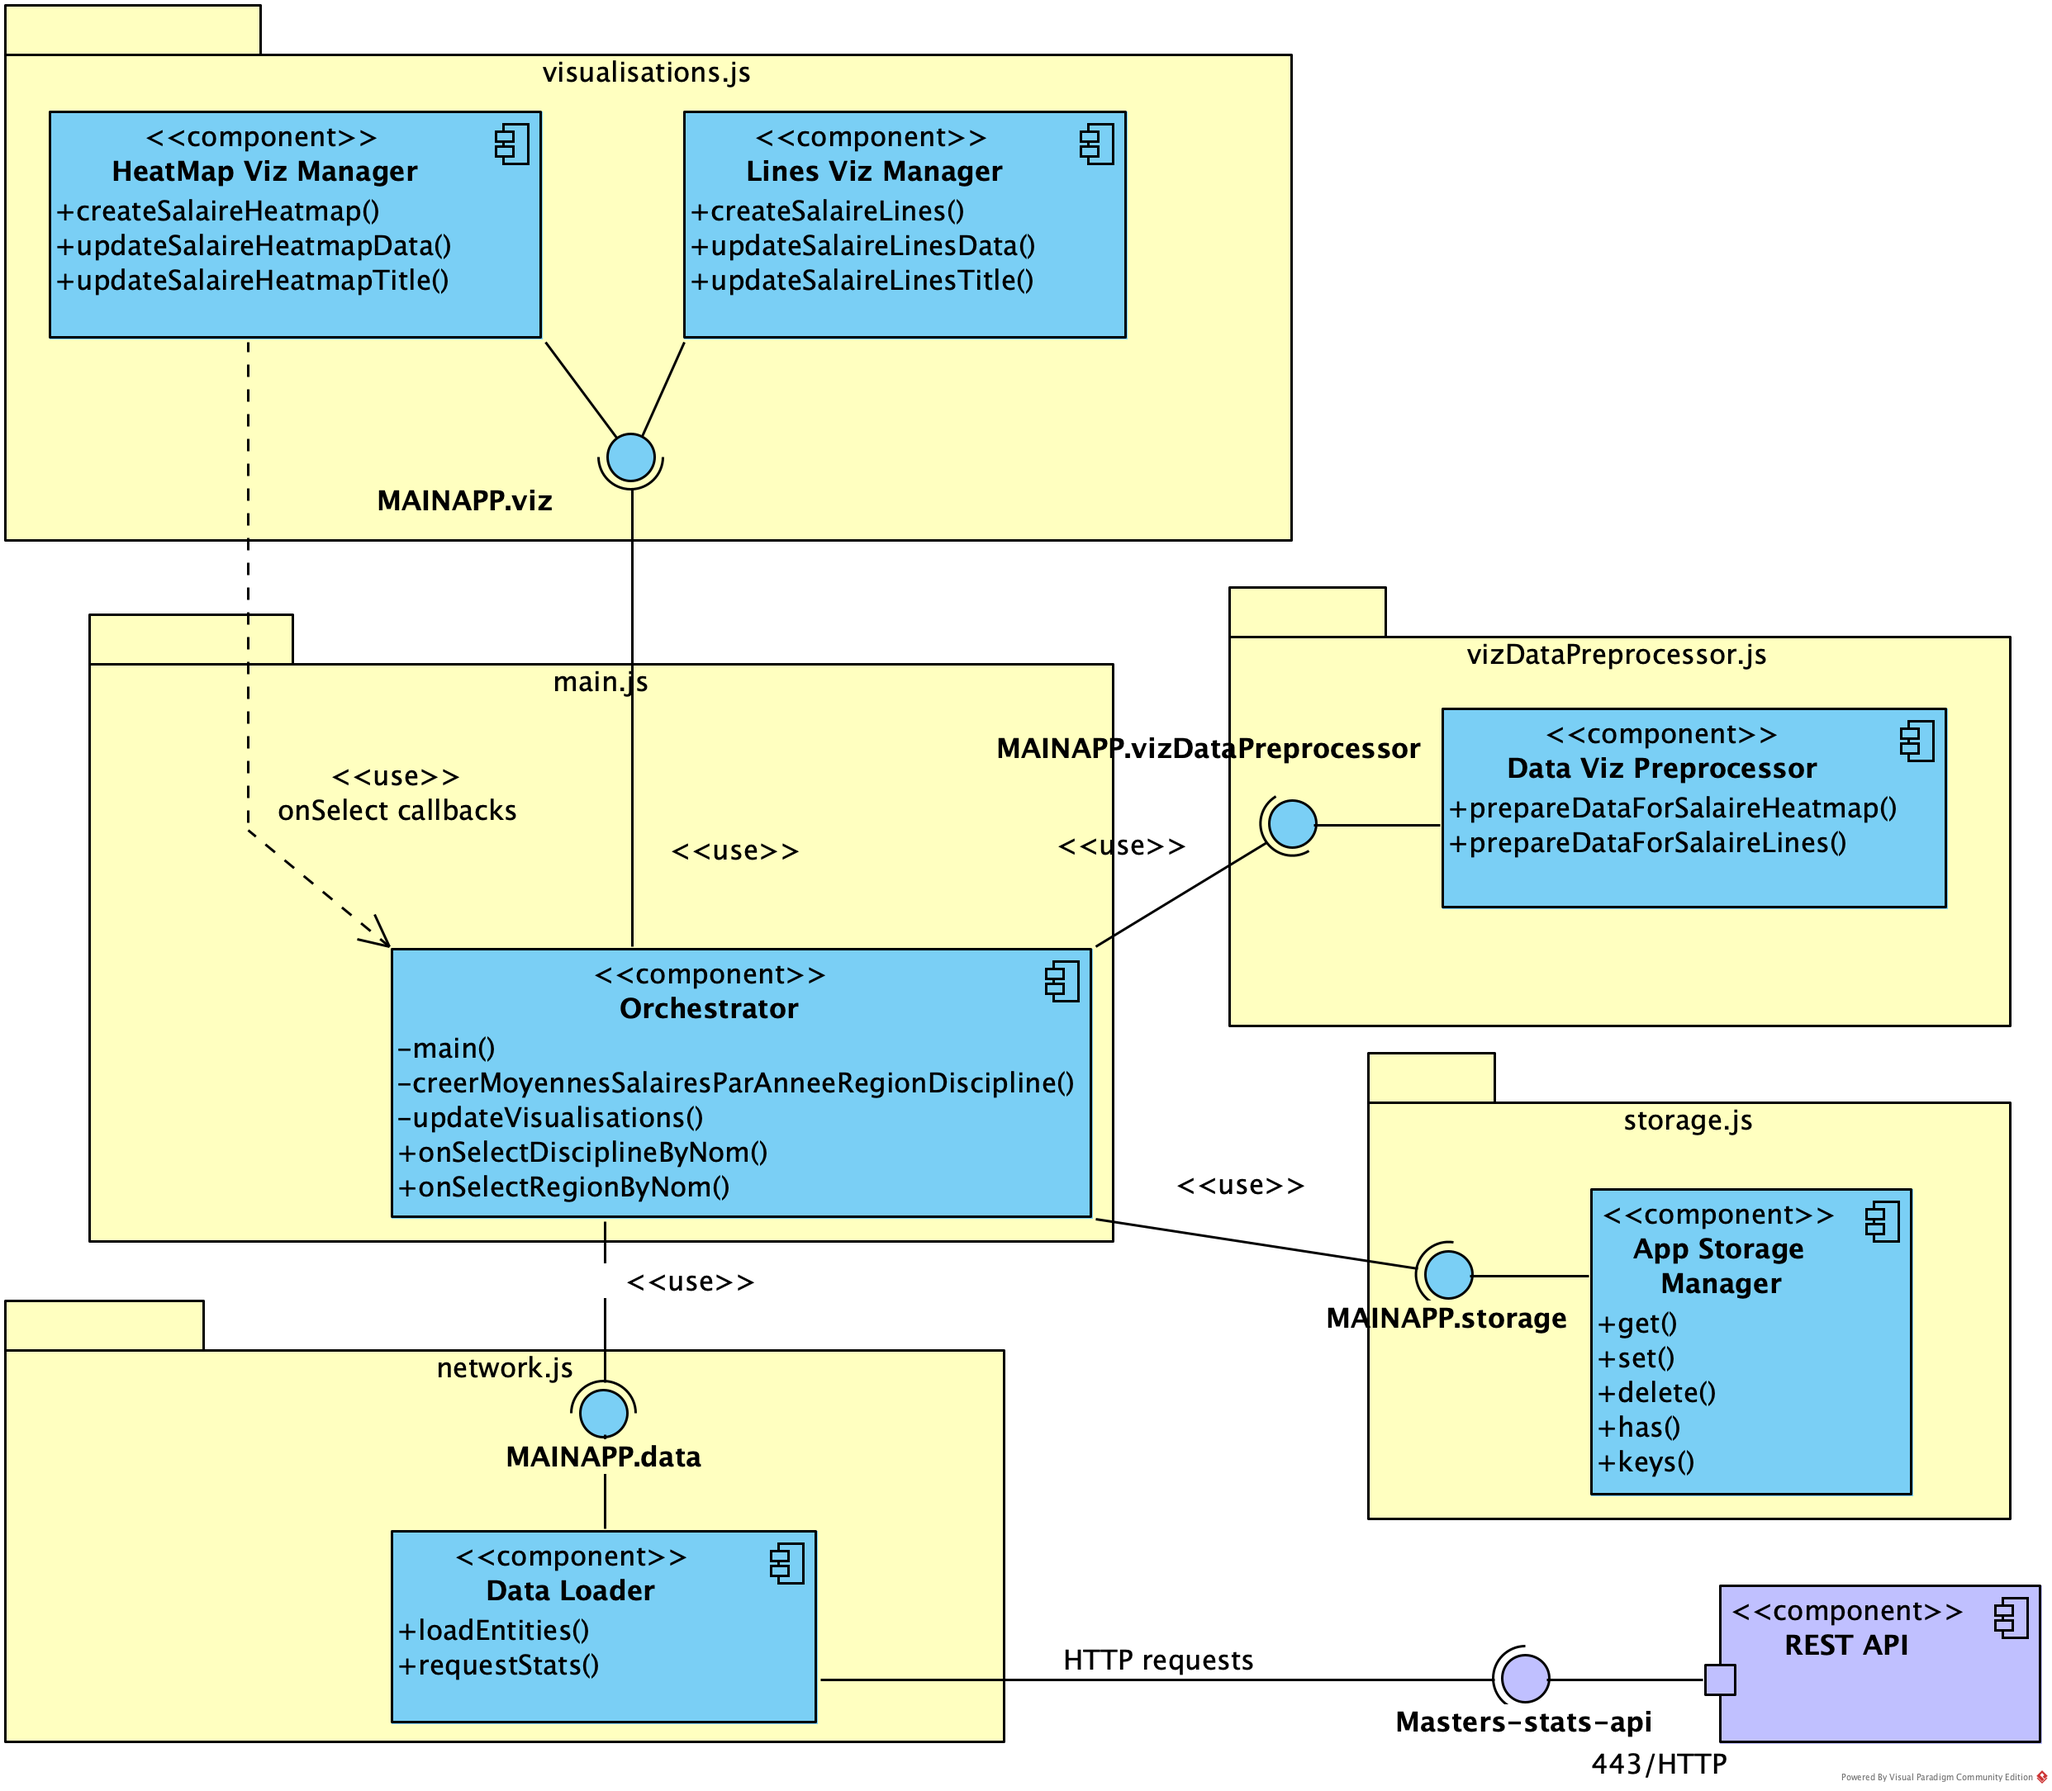
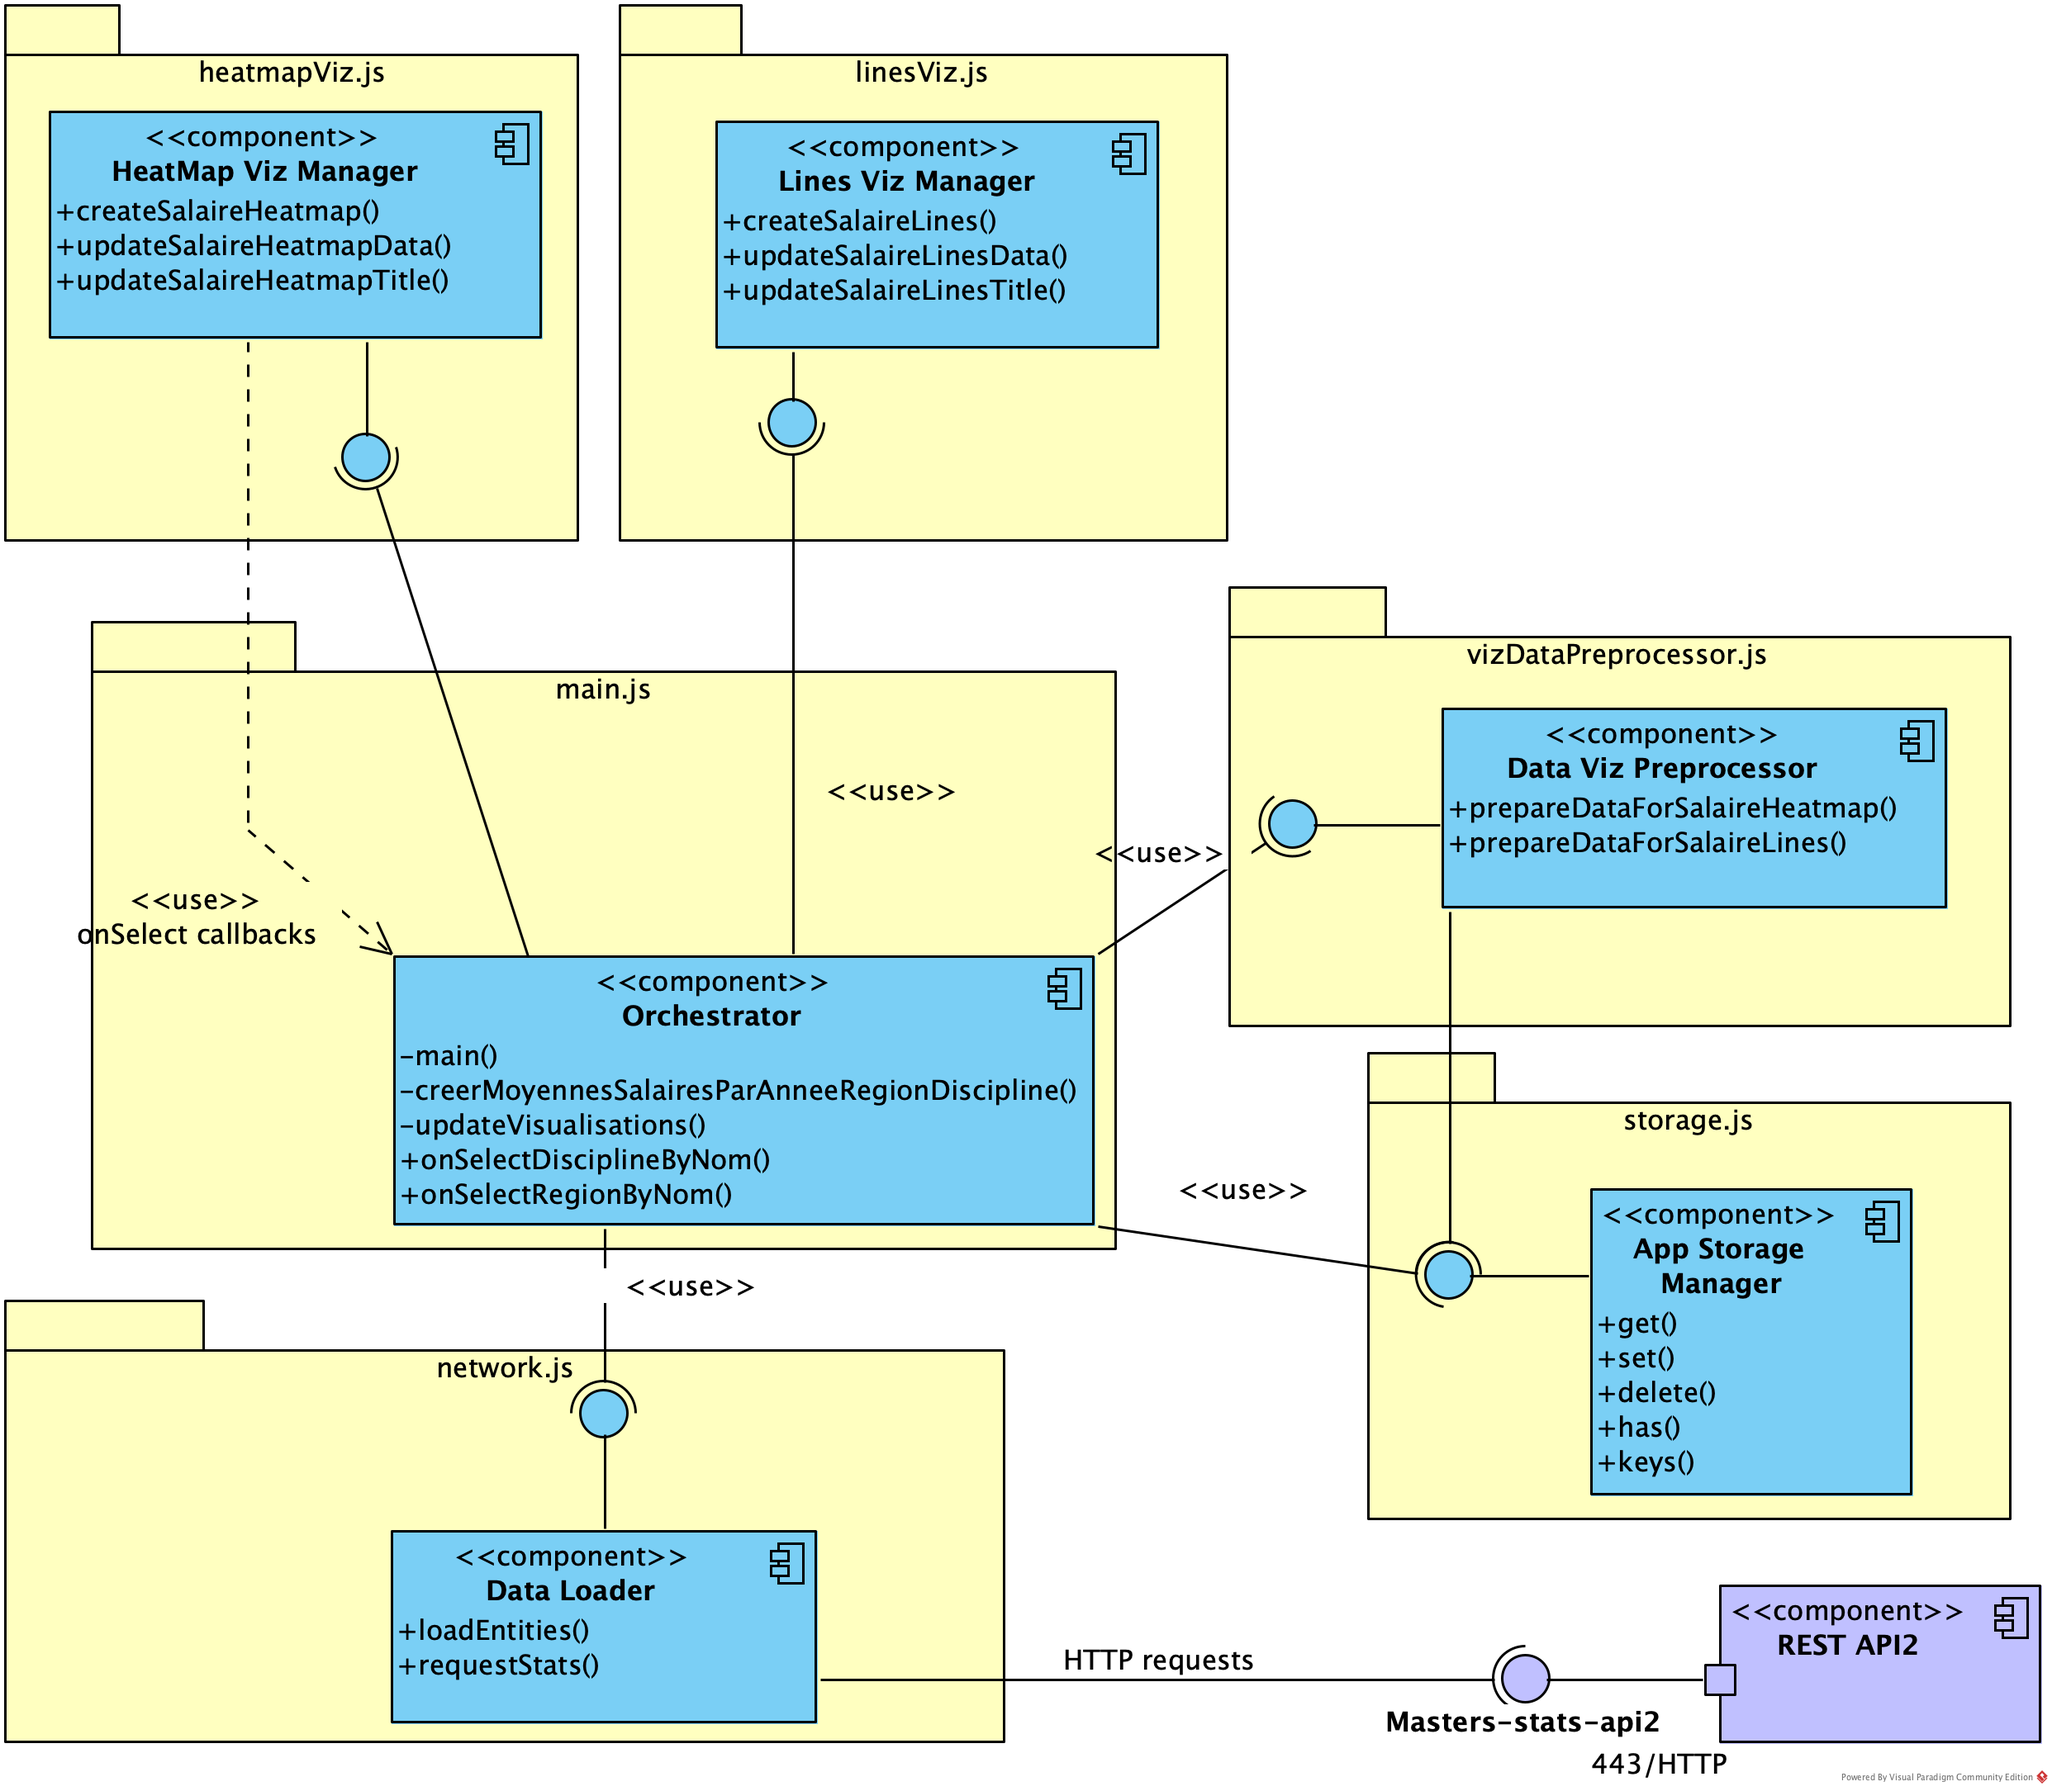
update doc for ESM

diff --git a/README.md b/README.md
@@ -28,45 +28,45 @@ _Si vous récupérez ce projet depuis une archive zip :_
 
 ## Composants
 
-L'application est composée de 6 composants répartis sur 5 fichiers : network.js, storage.js vizDataPreprocessor.js, visualisations.js et main.js.
+L'application est composée de 6 modules js : network.js, storage.js vizDataPreprocessor.js, heatmapViz.js, linesViz.js et main.js.
 
-Les composants, illustrés en bleu, sont des regroupements conceptuels de fonctions ayant une thématique commune.
+Les composants, illustrés en bleu, sont des regroupements conceptuels de fonctions principale des modules.
 
-Les méthodes préfixées avec un plus "+" sont "publiques", exposées par l'interface modélisée dans le schéma par un rond bleu, et dans le code via un objet global rattaché à la constante window du navigateur sous la propriété "MAINAPP". C'est une manière ancienne mais simple et efficace de paratager des données (fonctions, constantes...) entre différents scripts de la page. Ainsi chaque script de composant qui doit exposer son interface de fonction "publiques" commencera par créer cet objet MAINAPP s'il n'existe pas déjà puis attaché à ce dernier son interface (ex.: viz, storage...).
+Les méthodes préfixées avec un plus "+" sont publiques, exportées par le modules
 
-Le composant violet "REST API" représente l'API REST distante d'accès aux données
+Le composant violet "REST API" représente l'API REST distante d'accès aux données.
 
 ## Data Loader, dans network.js
 
-Ce composant est responsable de l'accès aux réseau pour exploiter l'API REST. Il offre pour cette démonstration deux fonctions : 
+Ce module est responsable de l'accès aux réseau pour exploiter l'API REST. Il offre pour cette démonstration deux fonctions : 
 - _loadEntities_ récupère sous forme de dictionnaire d'entités par id les académies, les régions, les secteurs disciplinaires et les disciplines.
 - _requestStats_ effectue de requête de récupération de statistiques d'après des filtres et des paramètres de retours.
 
 ## App Storage Manager, dans storage.js
 
-Ce composant est responsable du stockage en mémoire des données de l'application web. C'est un système de stockage clé-valeur qui permet de stocker n'importe quelle structure de données associée à une clé. Dans son implémentation actuelle, le stockage est un simple objet en mémoire vive, donc perdu au rechargement de la page (ou à la fermeture de celle-ci).
+Ce module est responsable du stockage en mémoire des données de l'application web. C'est un système de stockage clé-valeur qui permet de stocker n'importe quelle structure de données associée à une clé. Dans son implémentation actuelle, le stockage est un simple objet en mémoire vive, donc perdu au rechargement de la page (ou à la fermeture de celle-ci).
 
-## HeatMap Viz Manager, dans visualisations.js
+## HeatMap Viz Manager, dans heatmapViz.js
 
-Ce composant gère la visualisation de carte de chaleur (heatmap) des moyennes de salaires médians net temps plein par discipline et région. Celui-ci expose 3 fonctions "publiques" pour gérer la visualisation :
+Ce module gère la visualisation de carte de chaleur (heatmap) des moyennes de salaires médians net temps plein par discipline et région. Celui-ci expose 3 fonctions "publiques" pour gérer la visualisation :
 - createSalaireHeatmap, pour créer la visualisation intiale ;
 - updateSalaireHeatmapData, pour mettre à jour la visualisation avec de nouvelles données ;
 - updateSalaireHeatmapTitle, pour mettre à jour le titre de la visualisation.
 
-## Lines Vis Manager, dans visualisations.js
+## Lines Vis Manager, dans linesViz.js
 
-Ce composant gère la visualisation de courbes d'évolution dans le temps des moyennes de de salaires médians net temps plein, soit par discipline pour une région selectionnée, soit par région pour une disicpline selectionnée. Celui-ci expose de la même manière 3 fonctions "publiques" pour gérer la visualisation :
+Ce module gère la visualisation de courbes d'évolution dans le temps des moyennes de de salaires médians net temps plein, soit par discipline pour une région selectionnée, soit par région pour une disicpline selectionnée. Celui-ci expose de la même manière 3 fonctions "publiques" pour gérer la visualisation :
 - createSalaireLines, pour créer la visualisation intiale ;
 - updateSalaireLinesData, pour mettre à jour la visualisation avec de nouvelles données ;
 - updateSalaireLinesTitle, pour mettre à jour le titre de la visualisation.
 
 ## Data viz preprocessor, dans vizDataPreprocessor.js
 
-Ce composant permet de préparer les données en vue de leur visualisation. Il offre deux fonctions publiques pour préparer les données pour la visualisation de carte de chaleur et pour la visualisation des courbes d'évolution des salaires dans le temps.
+Ce module permet de préparer les données en vue de leur visualisation. Il offre deux fonctions publiques pour préparer les données pour la visualisation de carte de chaleur et pour la visualisation des courbes d'évolution des salaires dans le temps. Il s'appuie sur le module __App Storage Manager__ pour accéder au données dont il a besoin.
 
 ## Ochestrator, dans main.js
 
-Ce composant particulier n'offre pas d'interface de fonction publiques, mais le point d'entrée de l'application. Sa fonction _main()_ est la première exécutée, responsable de
+Ce module particulier n'offre pas d'interface de fonction publiques, mais le point d'entrée de l'application. Sa fonction _main()_ est la première exécutée, responsable de
 1. la création initiales des visualisations par les composants __HeatMap Viz Manager__ et __Lines Vis Manager__, avec la mise en place de gestionnaires d'évènements (click) pour la heatmap (fonctions callback _onSelectDisciplineByNom_ et _onSelectRegionByNom_)
 2. la récupération des données via le composant __Data Loader__,
 3. le calcul de données simplifiées (cf code-source, tableau de quadruplet) pas sa fonction "privée" _creerMoyennesSalairesParAnneeRegionDiscipline()_
@@ -78,15 +78,8 @@ Par la suite, les gestionnaire dévènements _onSelectDisciplineByNom_ et _onSel
 # Notes :
 
 - Il n'est pas forcément d'obligatoire d'avoir un composant par fichier, bien que cela soit souvent recommandé pour ne pas avoir de fichiers trop gros et ainsi ne pas diminuer la lisibilité du code et son maintien.
-- Dans notre cas, les composants sont purement conceptuels, il n'ont pas d'existence propre dans le code, qui ne fait que recenser des fonctions et en exposer certaines par des interfaces partagées (via l'objet commun MAINAPP.viz)
+- Dans notre cas, les composants sont purement conceptuels, il n'ont pas d'existence propre dans le code, qui ne fait que recenser des fonctions et en exposer certaines par des interfaces partagées (via l'export de module)
 - La modélisation conceptuelle a un intérêt majeur : elle permet de facilement vous situer dans le code, de rationnaliser son organisation et de permettre d'ajouter de nouvelles fonctionnalités, de complexifier l'application en diminuant les risque de régressions fonctionnelles et de problème d'effet de bord. 
   - Par exemple, nous pourrions décider de faire évoluer le composant __App Storage Manager__ pour exploiter les capacité du navigateur à stocker localement nos données (localStorage, sessionStorage) pour permettre de les retrouver à la prochaine ouverture de la page. Si nous respectons l'interface exposée (i.e. : les signatures de fonctions "publiques" du composant) alors le risque d'effet de bord sur le reste est quasi nul.
-- la séparation du code en différent fichier a un avantage important : la diminution du code-source par fichier et son organisation logique, ce qui simplifie sa compréhension et sa maintenance. Dans le cas présent, elle présente un inconvient : l'augmentation de nombre de fichier à télécharger par le navigateur, et le besoin de passer passer par une structure "globale" commune (dans cette démo MAINAPP), qui n'est pas des plus élégant. Toutefois, si vous souhaitez découvrir comment vous pourriez vous passer de cette technique en conservant cette approche de développement par composants, n'hésitez-pas à consulter ces ressources technologiques :
-  - Module ECMASCRIPT https://developer.mozilla.org/en-US/docs/Web/JavaScript/Guide/Modules
-    - C'est le système de module officiel supporté nativement par tous les navigateurs modernes
-    - il ressemble à ce que vous avez en PHP et Java (import ...)
-    - il permet de séparer notre code en différent fichier sans avoir à utiliser la technique de variable partagée et sans avoir à référencer tous nos script dans la page index.html
-    - il permet d'optimiser votre code automatiquement (ex.: Tree shaking)
-    - il permet d'obtenir de meilleurs performance, notamment en utilisant les fonctionnalités de chargement asynchrone des modules (le navigateur charge un module uniquement au moment où il en a besoin et pas dès le début au chargement de la page)
-
+- la séparation du code en différent fichier a un avantage important : la diminution du code-source par fichier et son organisation logique, ce qui simplifie sa compréhension et sa maintenance. L'utilisation de ECMAScript Module (ESM) dans le cas présent est la technologie actuelle pour développer de cetee manière.
 
